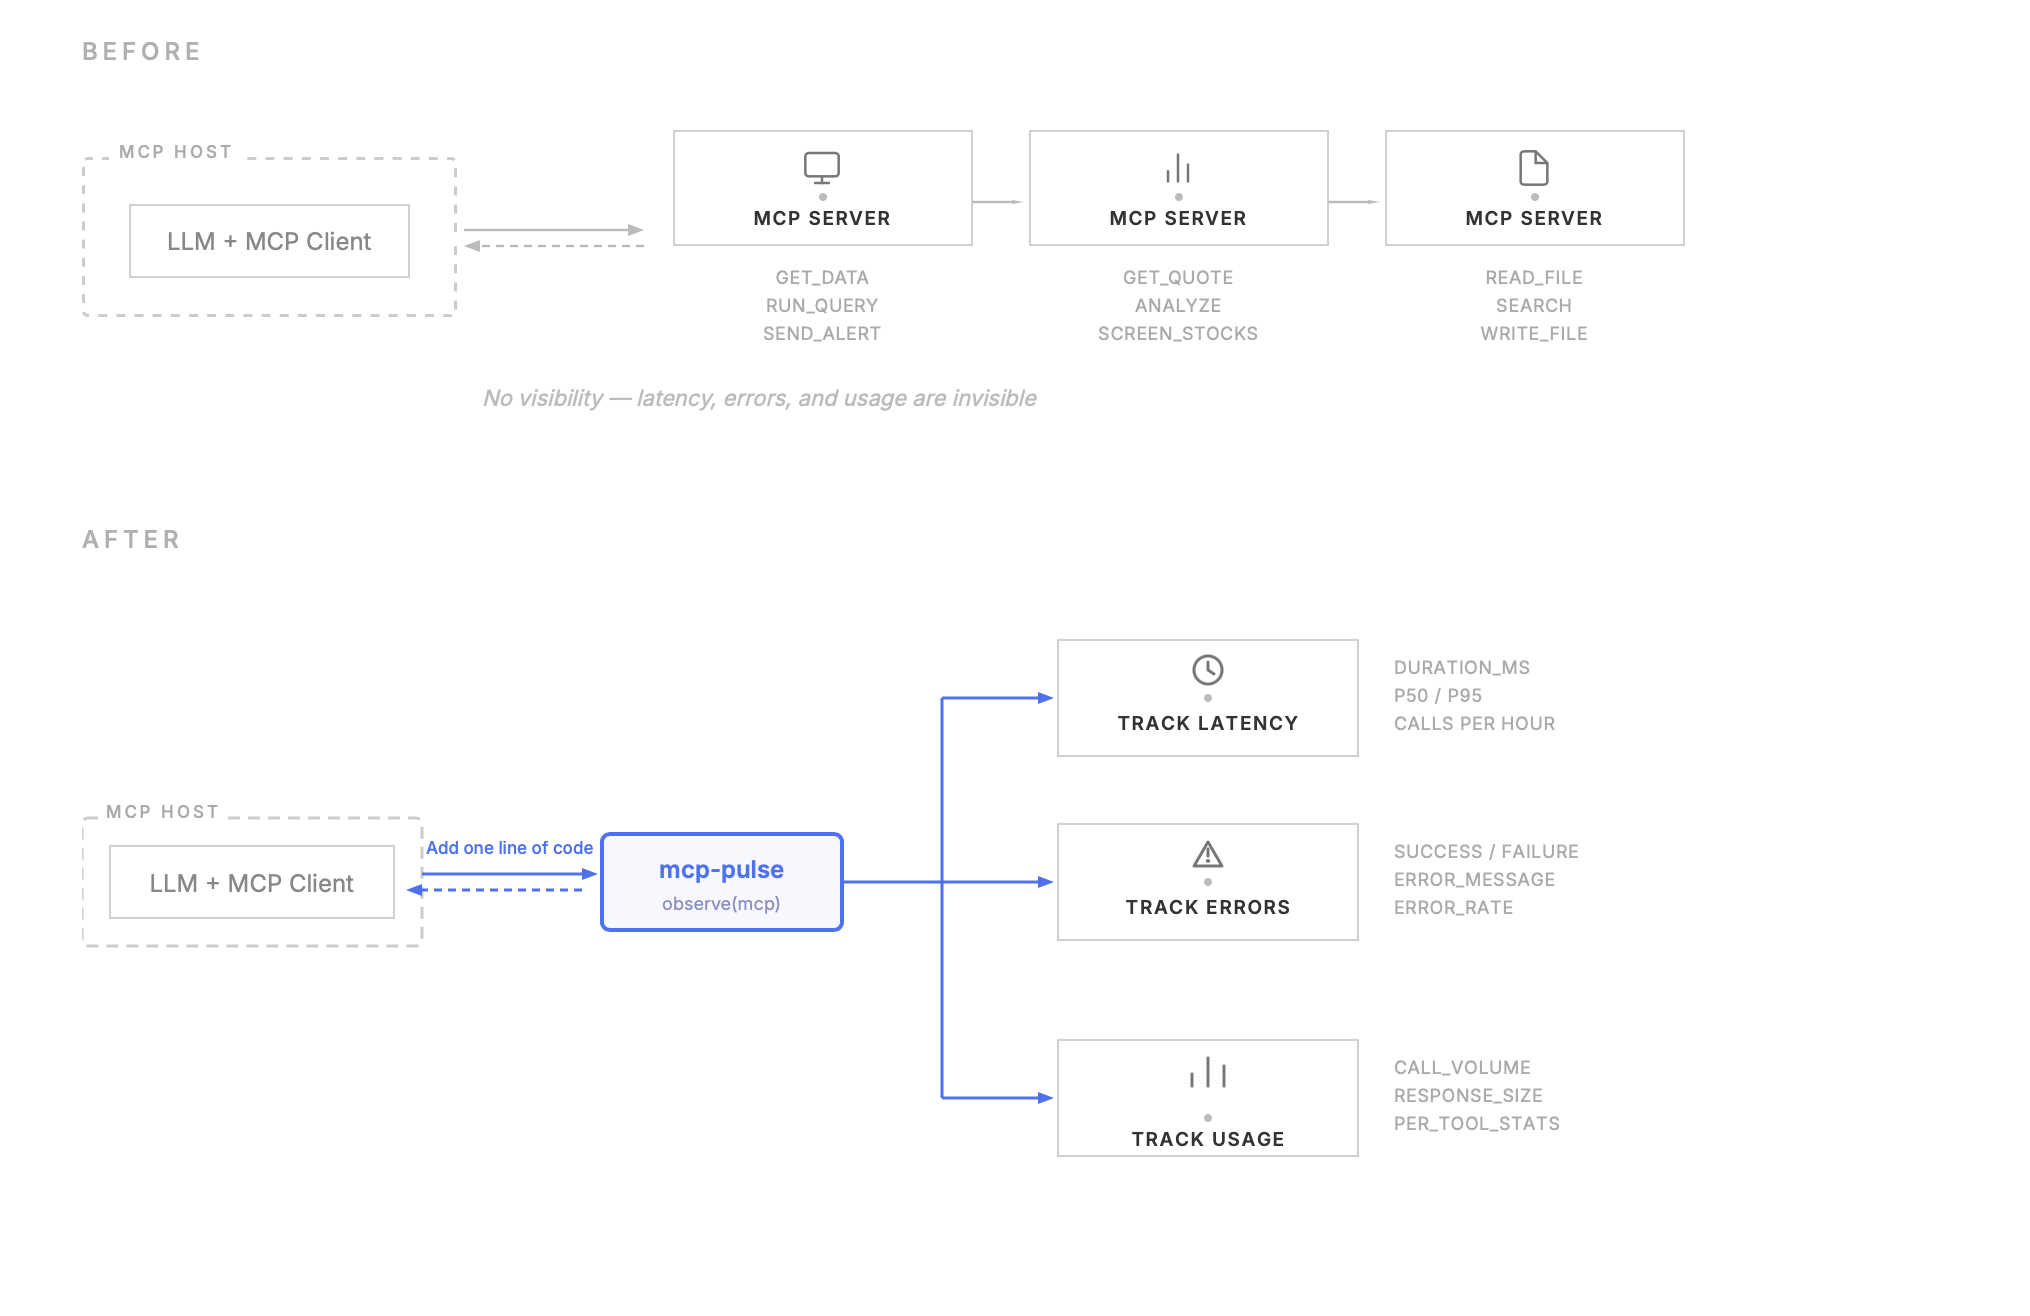
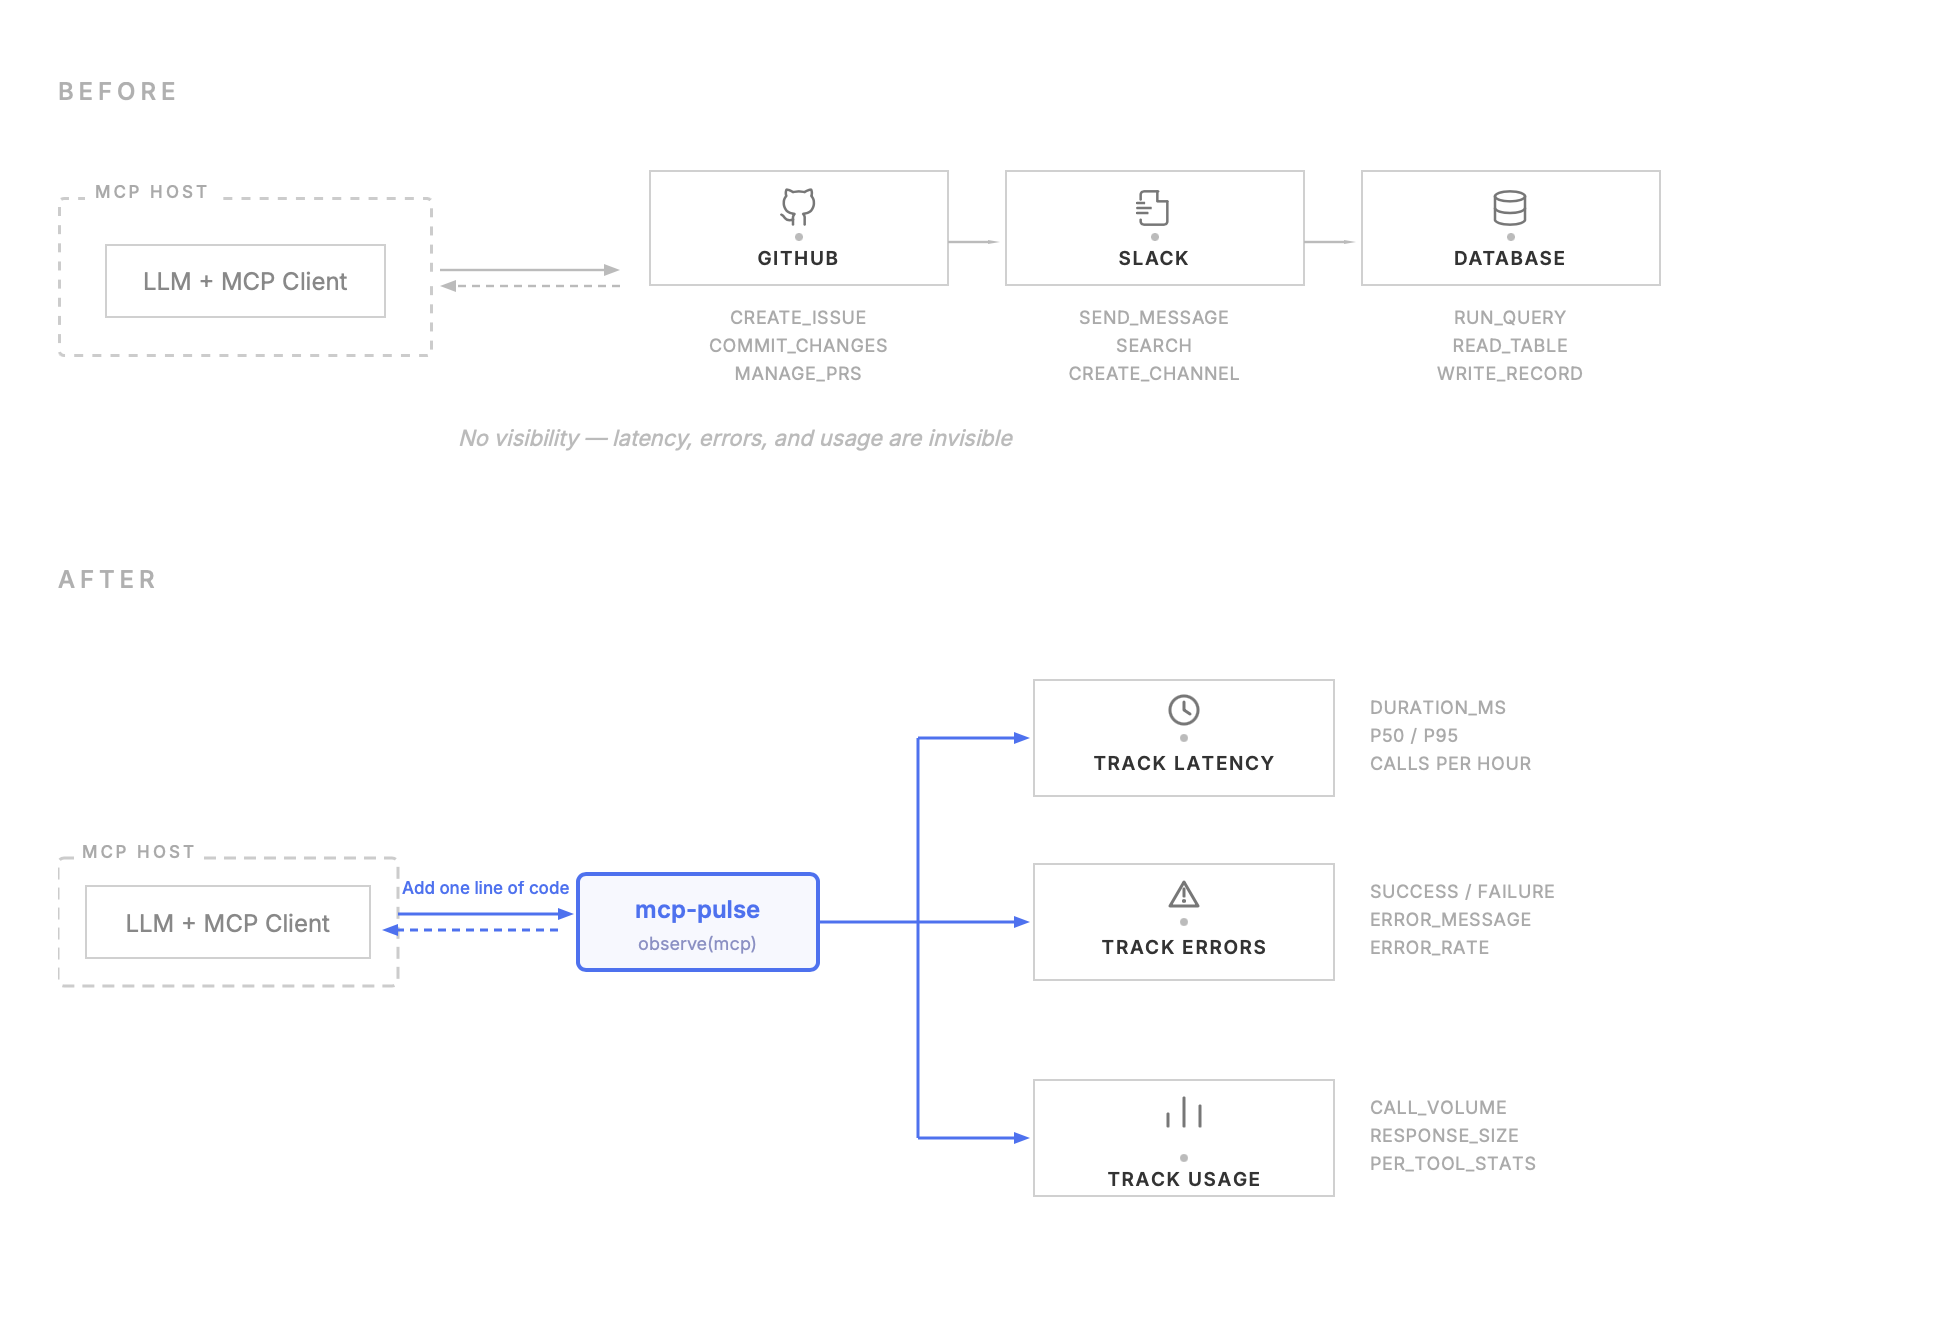
Update diagram with generic dev tool examples (GitHub, Slack, Database)

diff --git a/docs/before-after.html b/docs/before-after.html
@@ -43,40 +43,40 @@
   <div style="display:flex;align-items:flex-start;gap:0">
     <div style="display:flex;flex-direction:column;align-items:center">
       <div style="border:1px solid #d0d0d0;width:150px;height:58px;display:flex;flex-direction:column;align-items:center;justify-content:center;gap:3px">
-        <svg width="20" height="20" viewBox="0 0 24 24" fill="none" stroke="#777" stroke-width="1.5" stroke-linecap="round" stroke-linejoin="round"><rect x="2" y="3" width="20" height="14" rx="2"/><line x1="8" y1="21" x2="16" y2="21"/><line x1="12" y1="17" x2="12" y2="21"/></svg>
+        <svg width="20" height="20" viewBox="0 0 24 24" fill="none" stroke="#777" stroke-width="1.5" stroke-linecap="round" stroke-linejoin="round"><path d="M9 19c-5 1.5-5-2.5-7-3m14 6v-3.87a3.37 3.37 0 0 0-.94-2.61c3.14-.35 6.44-1.54 6.44-7A5.44 5.44 0 0 0 20 4.77 5.07 5.07 0 0 0 19.91 1S18.73.65 16 2.48a13.38 13.38 0 0 0-7 0C6.27.65 5.09 1 5.09 1A5.07 5.07 0 0 0 5 4.77a5.44 5.44 0 0 0-1.5 3.78c0 5.42 3.3 6.61 6.44 7A3.37 3.37 0 0 0 9 18.13V22"/></svg>
         <div style="width:4px;height:4px;border-radius:50%;background:#bbb"></div>
-        <div style="font-size:9.5px;font-weight:600;letter-spacing:0.8px;color:#333">MCP SERVER</div>
+        <div style="font-size:9.5px;font-weight:600;letter-spacing:0.8px;color:#333">GITHUB</div>
       </div>
       <div style="margin-top:10px;display:flex;flex-direction:column;align-items:center;gap:3px">
-        <span style="font-size:9px;color:#aaa;letter-spacing:0.3px">GET_DATA</span>
-        <span style="font-size:9px;color:#aaa;letter-spacing:0.3px">RUN_QUERY</span>
-        <span style="font-size:9px;color:#aaa;letter-spacing:0.3px">SEND_ALERT</span>
+        <span style="font-size:9px;color:#aaa;letter-spacing:0.3px">CREATE_ISSUE</span>
+        <span style="font-size:9px;color:#aaa;letter-spacing:0.3px">COMMIT_CHANGES</span>
+        <span style="font-size:9px;color:#aaa;letter-spacing:0.3px">MANAGE_PRS</span>
       </div>
     </div>
     <svg width="28" height="2" viewBox="0 0 28 2" style="align-self:center;margin-top:-36px;flex-shrink:0"><line x1="0" y1="1" x2="20" y2="1" stroke="#bbb" stroke-width="1.2"/><polygon points="20,0 20,2 26,1" fill="#bbb"/></svg>
     <div style="display:flex;flex-direction:column;align-items:center">
       <div style="border:1px solid #d0d0d0;width:150px;height:58px;display:flex;flex-direction:column;align-items:center;justify-content:center;gap:3px">
-        <svg width="20" height="20" viewBox="0 0 24 24" fill="none" stroke="#777" stroke-width="1.5" stroke-linecap="round"><line x1="6" y1="20" x2="6" y2="14"/><line x1="12" y1="20" x2="12" y2="4"/><line x1="18" y1="20" x2="18" y2="10"/></svg>
+        <svg width="20" height="20" viewBox="0 0 24 24" fill="none" stroke="#777" stroke-width="1.5" stroke-linecap="round" stroke-linejoin="round"><path d="M14.5 2H6a2 2 0 0 0-2 2v3"/><polyline points="14 2 14 8 20 8"/><path d="M20 8v12a2 2 0 0 1-2 2H6a2 2 0 0 1-2-2v-1"/><line x1="2" y1="12" x2="10" y2="12"/><line x1="2" y1="15" x2="8" y2="15"/><line x1="2" y1="9" x2="6" y2="9"/></svg>
         <div style="width:4px;height:4px;border-radius:50%;background:#bbb"></div>
-        <div style="font-size:9.5px;font-weight:600;letter-spacing:0.8px;color:#333">MCP SERVER</div>
+        <div style="font-size:9.5px;font-weight:600;letter-spacing:0.8px;color:#333">SLACK</div>
       </div>
       <div style="margin-top:10px;display:flex;flex-direction:column;align-items:center;gap:3px">
-        <span style="font-size:9px;color:#aaa;letter-spacing:0.3px">GET_QUOTE</span>
-        <span style="font-size:9px;color:#aaa;letter-spacing:0.3px">ANALYZE</span>
-        <span style="font-size:9px;color:#aaa;letter-spacing:0.3px">SCREEN_STOCKS</span>
-      </div>
-    </div>
-    <svg width="28" height="2" viewBox="0 0 28 2" style="align-self:center;margin-top:-36px;flex-shrink:0"><line x1="0" y1="1" x2="20" y2="1" stroke="#bbb" stroke-width="1.2"/><polygon points="20,0 20,2 26,1" fill="#bbb"/></svg>
-    <div style="display:flex;flex-direction:column;align-items:center">
-      <div style="border:1px solid #d0d0d0;width:150px;height:58px;display:flex;flex-direction:column;align-items:center;justify-content:center;gap:3px">
-        <svg width="20" height="20" viewBox="0 0 24 24" fill="none" stroke="#777" stroke-width="1.5"><path d="M13 2H6a2 2 0 0 0-2 2v16a2 2 0 0 0 2 2h12a2 2 0 0 0 2-2V9z"/><polyline points="13 2 13 9 20 9"/></svg>
-        <div style="width:4px;height:4px;border-radius:50%;background:#bbb"></div>
-        <div style="font-size:9.5px;font-weight:600;letter-spacing:0.8px;color:#333">MCP SERVER</div>
-      </div>
-      <div style="margin-top:10px;display:flex;flex-direction:column;align-items:center;gap:3px">
-        <span style="font-size:9px;color:#aaa;letter-spacing:0.3px">READ_FILE</span>
+        <span style="font-size:9px;color:#aaa;letter-spacing:0.3px">SEND_MESSAGE</span>
         <span style="font-size:9px;color:#aaa;letter-spacing:0.3px">SEARCH</span>
-        <span style="font-size:9px;color:#aaa;letter-spacing:0.3px">WRITE_FILE</span>
+        <span style="font-size:9px;color:#aaa;letter-spacing:0.3px">CREATE_CHANNEL</span>
+      </div>
+    </div>
+    <svg width="28" height="2" viewBox="0 0 28 2" style="align-self:center;margin-top:-36px;flex-shrink:0"><line x1="0" y1="1" x2="20" y2="1" stroke="#bbb" stroke-width="1.2"/><polygon points="20,0 20,2 26,1" fill="#bbb"/></svg>
+    <div style="display:flex;flex-direction:column;align-items:center">
+      <div style="border:1px solid #d0d0d0;width:150px;height:58px;display:flex;flex-direction:column;align-items:center;justify-content:center;gap:3px">
+        <svg width="20" height="20" viewBox="0 0 24 24" fill="none" stroke="#777" stroke-width="1.5" stroke-linecap="round" stroke-linejoin="round"><ellipse cx="12" cy="5" rx="9" ry="3"/><path d="M21 12c0 1.66-4 3-9 3s-9-1.34-9-3"/><path d="M3 5v14c0 1.66 4 3 9 3s9-1.34 9-3V5"/></svg>
+        <div style="width:4px;height:4px;border-radius:50%;background:#bbb"></div>
+        <div style="font-size:9.5px;font-weight:600;letter-spacing:0.8px;color:#333">DATABASE</div>
+      </div>
+      <div style="margin-top:10px;display:flex;flex-direction:column;align-items:center;gap:3px">
+        <span style="font-size:9px;color:#aaa;letter-spacing:0.3px">RUN_QUERY</span>
+        <span style="font-size:9px;color:#aaa;letter-spacing:0.3px">READ_TABLE</span>
+        <span style="font-size:9px;color:#aaa;letter-spacing:0.3px">WRITE_RECORD</span>
       </div>
     </div>
   </div>
